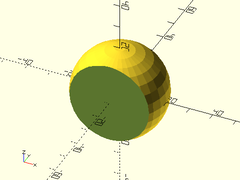
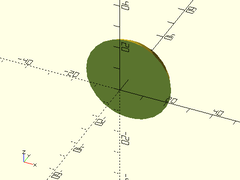
Added docs for mutator scalar cps

Changed region(s): [[0.2625, 0.1944, 0.7292, 0.8056], [0.4958, 0.5556, 0.525, 0.5833]]

diff --git a/transforms.scad.md b/transforms.scad.md
@@ -1849,7 +1849,7 @@ Slices an object at a cut plane, and masks away everything that is on one side.
 Argument        | What it does
 --------------- | ------------------------------
 `v`             | Normal of plane to slice at.  Keeps everything on the side the normal points to.  Default: [0,0,1] (V\_UP)
-`cp`            | A point that is on the cut plane.  This can be used to shift where it slices the object at.  Default: [0,0,0]
+`cp`            | If given as a scalar, moves the cut plane along the normal by the given amount.  If given as a point, specifies a point on the cut plane.  This can be used to shift where it slices the object at.  Default: [0,0,0]
 `s`             | Mask size to use.  Use a number larger than twice your object's largest axis.  If you make this too large, it messes with centering your view.  Default: 100
 
 **Example 1**:
@@ -1876,7 +1876,7 @@ Slices an object at a horizontal X-Y cut plane, and masks away everything that i
 
 Argument        | What it does
 --------------- | ------------------------------
-`cp`            | A point that is on the cut plane.  This can be used to shift where it slices the object at.  Default: [0,0,0]
+`cp`            | If given as a scalar, moves the cut plane up by the given amount.  If given as a point, specifies a point on the cut plane.  Default: [0,0,0]
 `s`             | Mask size to use.  Use a number larger than twice your object's largest axis.  If you make this too large, it messes with centering your view.  Default: 100
 
 **Example 1**:
@@ -1887,9 +1887,15 @@ Argument        | What it does
 
 **Example 2**:
 
-    top_half(cp=[0,0,-5]) sphere(r=20);
+    top_half(cp=5) sphere(r=20);
 
 ![top\_half() Example 2](images/transforms/top_half_2.gif)
+
+**Example 3**:
+
+    top_half(cp=[0,0,-8]) sphere(r=20);
+
+![top\_half() Example 3](images/transforms/top_half_3.gif)
 
 ---
 
@@ -1903,7 +1909,7 @@ Slices an object at a horizontal X-Y cut plane, and masks away everything that i
 
 Argument        | What it does
 --------------- | ------------------------------
-`cp`            | A point that is on the cut plane.  This can be used to shift where it slices the object at.  Default: [0,0,0]
+`cp`            | If given as a scalar, moves the cut plane down by the given amount.  If given as a point, specifies a point on the cut plane.  Default: [0,0,0]
 `s`             | Mask size to use.  Use a number larger than twice your object's largest axis.  If you make this too large, it messes with centering your view.  Default: 100
 
 **Example 1**:
@@ -1930,7 +1936,7 @@ Slices an object at a vertical Y-Z cut plane, and masks away everything that is 
 
 Argument        | What it does
 --------------- | ------------------------------
-`cp`            | A point that is on the cut plane.  This can be used to shift where it slices the object at.  Default: [0,0,0]
+`cp`            | If given as a scalar, moves the cut plane left by the given amount.  If given as a point, specifies a point on the cut plane.  Default: [0,0,0]
 `s`             | Mask size to use.  Use a number larger than twice your object's largest axis.  If you make this too large, it messes with centering your view.  Default: 100
 
 **Example 1**:
@@ -1957,7 +1963,7 @@ Slices an object at a vertical Y-Z cut plane, and masks away everything that is 
 
 Argument        | What it does
 --------------- | ------------------------------
-`cp`            | A point that is on the cut plane.  This can be used to shift where it slices the object at.  Default: [0,0,0]
+`cp`            | If given as a scalar, moves the cut plane right by the given amount.  If given as a point, specifies a point on the cut plane.  Default: [0,0,0]
 `s`             | Mask size to use.  Use a number larger than twice your object's largest axis.  If you make this too large, it messes with centering your view.  Default: 100
 
 **Example 1**:
@@ -1968,9 +1974,15 @@ Argument        | What it does
 
 **Example 2**:
 
-    right_half(cp=[-5,0,0]) sphere(r=20);
+    right_half(cp=-5) sphere(r=20);
 
 ![right\_half() Example 2](images/transforms/right_half_2.gif)
+
+**Example 3**:
+
+    right_half(cp=[-5,0,0]) sphere(r=20);
+
+![right\_half() Example 3](images/transforms/right_half_3.gif)
 
 ---
 
@@ -1984,7 +1996,7 @@ Slices an object at a vertical X-Z cut plane, and masks away everything that is 
 
 Argument        | What it does
 --------------- | ------------------------------
-`cp`            | A point that is on the cut plane.  This can be used to shift where it slices the object at.  Default: [0,0,0]
+`cp`            | If given as a scalar, moves the cut plane forward by the given amount.  If given as a point, specifies a point on the cut plane.  Default: [0,0,0]
 `s`             | Mask size to use.  Use a number larger than twice your object's largest axis.  If you make this too large, it messes with centering your view.  Default: 100
 
 **Example 1**:
@@ -1995,9 +2007,15 @@ Argument        | What it does
 
 **Example 2**:
 
-    front_half(cp=[0,5,0]) sphere(r=20);
+    front_half(cp=5) sphere(r=20);
 
 ![front\_half() Example 2](images/transforms/front_half_2.gif)
+
+**Example 3**:
+
+    front_half(cp=[0,5,0]) sphere(r=20);
+
+![front\_half() Example 3](images/transforms/front_half_3.gif)
 
 ---
 
@@ -2011,7 +2029,7 @@ Slices an object at a vertical X-Z cut plane, and masks away everything that is 
 
 Argument        | What it does
 --------------- | ------------------------------
-`cp`            | A point that is on the cut plane.  This can be used to shift where it slices the object at.  Default: [0,0,0]
+`cp`            | If given as a scalar, moves the cut plane back by the given amount.  If given as a point, specifies a point on the cut plane.  Default: [0,0,0]
 `s`             | Mask size to use.  Use a number larger than twice your object's largest axis.  If you make this too large, it messes with centering your view.  Default: 100
 
 **Example 1**:
@@ -2022,9 +2040,15 @@ Argument        | What it does
 
 **Example 2**:
 
-    back_half(cp=[0,-10,0]) sphere(r=20);
+    back_half(cp=8) sphere(r=20);
 
 ![back\_half() Example 2](images/transforms/back_half_2.png)
+
+**Example 3**:
+
+    back_half(cp=[0,-10,0]) sphere(r=20);
+
+![back\_half() Example 3](images/transforms/back_half_3.png)
 
 ---
 
